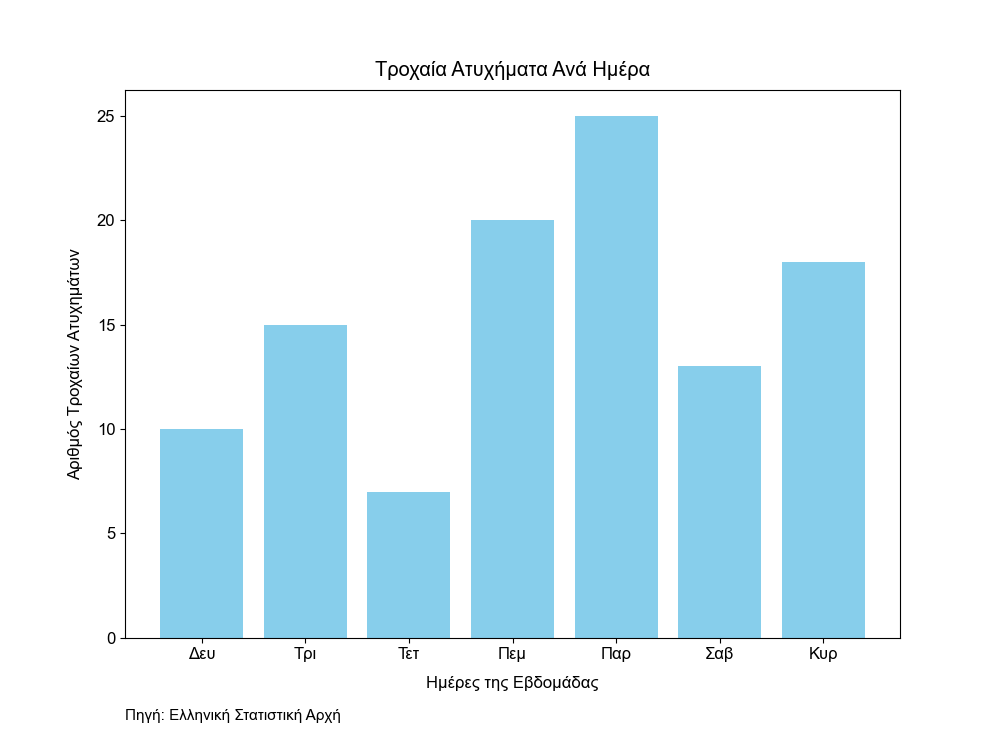
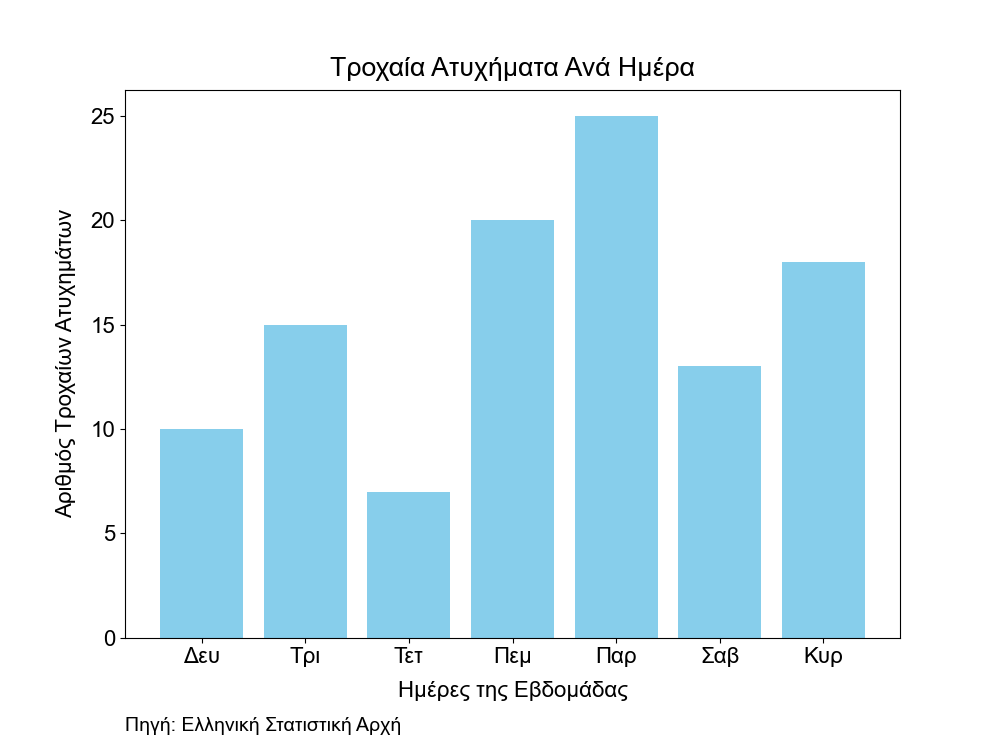
111

diff --git a/bar_chart.py b/bar_chart.py
@@ -25,7 +25,7 @@ accidents = list(data.values())
 # Variables for customization
 bar_color = "skyblue"  # Customize bar color
 font_family = "Arial"  # Font for labels and title
-font_size = 12  # Font size for labels and title
+font_size = 16  # Font size for labels and title
 source_text = "Πηγή: Ελλ. Στατ. Υπηρ."  # Source text
 source_font_size = 11  # Font size for the source
 
@@ -42,7 +42,7 @@ plt.title("Τροχαία Ατυχήματα Ανά Ημέρα", pad=10)
 plt.subplots_adjust(bottom=0.15)
 
 plt.text(
-    0, -0.15, "Πηγή: Ελληνική Στατιστική Αρχή", fontsize=11, ha='left', transform=plt.gca().transAxes
+    0, -0.17, "Πηγή: Ελληνική Στατιστική Αρχή", fontsize=14, ha='left', transform=plt.gca().transAxes
 )
 
 # plt.show()
@@ -55,5 +55,5 @@ plt.close()  # Close the plot to release resources
 # Generate a thumbnail
 thumbnail_image_path = "Τροχαία_Ατυχήματα_Ανά_Ημέρα_s.png"
 with Image.open(main_image_path) as img:
-    img.thumbnail((500, 375))  # Set thumbnail size
+    img.thumbnail((280, 210))  # Set thumbnail size
     img.save(thumbnail_image_path)
